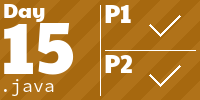
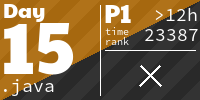
2024 day 15 part 1 complete

diff --git a/README.md b/README.md
@@ -1,9 +1,10 @@
 <html>
 <body>
 <h2>Advent Of Code</h2>
+
 <!-- AOC TILES BEGIN -->
 <h1 align="center">
-  2024 - 26 ⭐ - Java
+  2024 - 29 ⭐ - Java
 </h1>
 <a href="src/main/java/fr/home/mikedev/aoc2024/Main01.java">
   <img src=".aoc_tiles/tiles/2024/01.png" width="161px">
@@ -43,6 +44,12 @@
 </a>
 <a href="src/main/java/fr/home/mikedev/aoc2024/Main13.java">
   <img src=".aoc_tiles/tiles/2024/13.png" width="161px">
+</a>
+<a href="src/main/java/fr/home/mikedev/aoc2024/Main14.java">
+  <img src=".aoc_tiles/tiles/2024/14.png" width="161px">
+</a>
+<a href="src/main/java/fr/home/mikedev/aoc2024/Main15.java">
+  <img src=".aoc_tiles/tiles/2024/15.png" width="161px">
 </a>
 <h1 align="center">
   2023 - 6 ⭐ - Java
